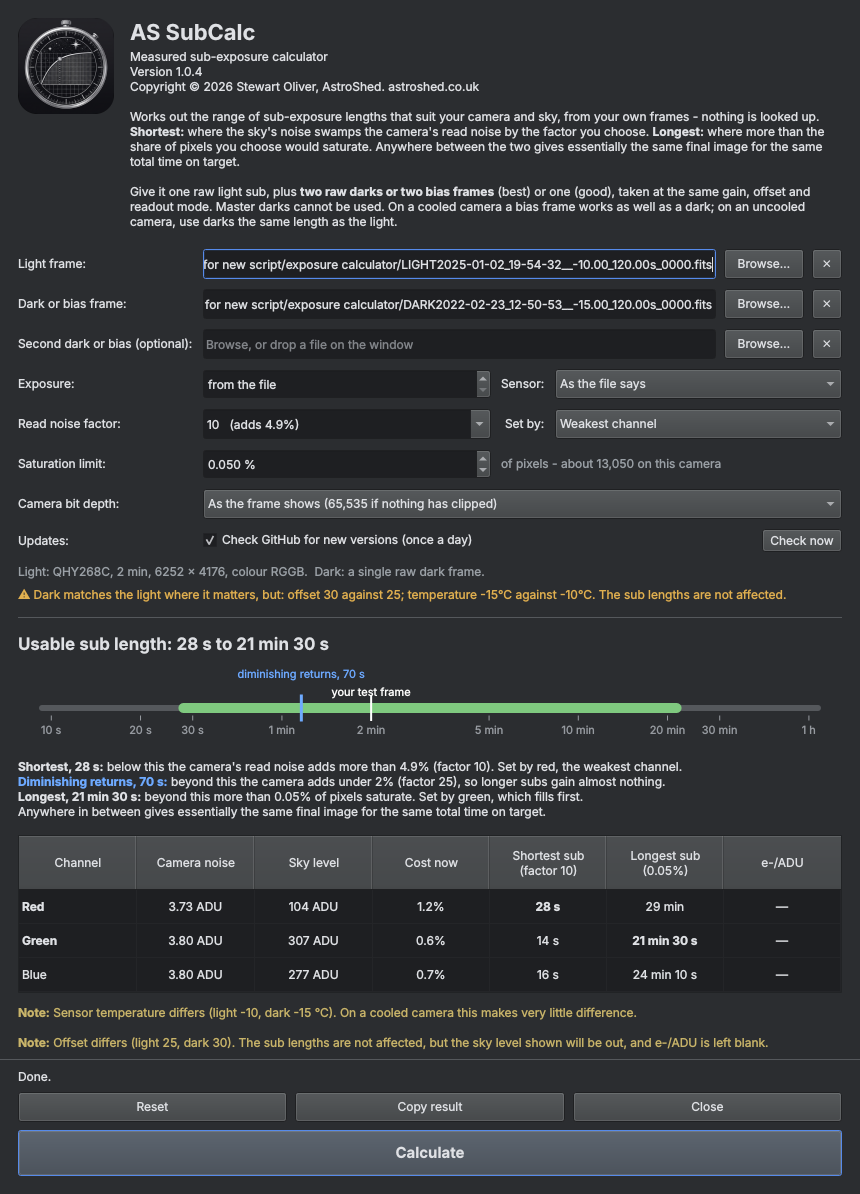
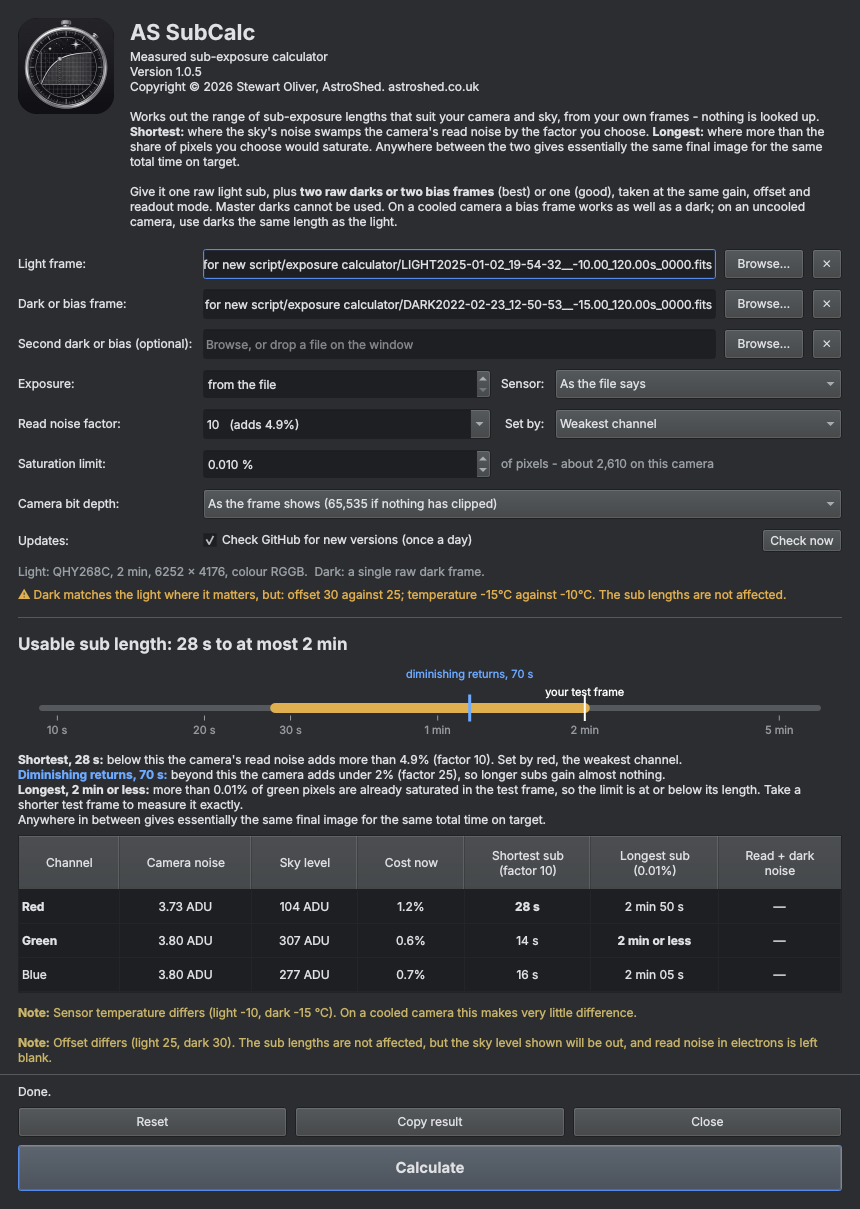
Add files via upload

Changed region(s): [[0.0, 0.031, 0.9977, 0.9916], [0.0302, 0.0, 0.1209, 0.093]]

diff --git a/CHANGELOG.md b/CHANGELOG.md
@@ -1,5 +1,12 @@
 # AS SubCalc: version history
 
+## v1.0.5
+
+- **Read noise** column, in electrons, replaces e-/ADU. With darks it is headed **Read + dark noise**, as a dark also holds a little dark-current noise; bias frames give the read noise alone.
+- **e-/ADU is no longer shown.** Many 12- and 14-bit cameras scale their values up to fill 16-bit files, so the figure measured from the file came out 4 or 16 times below the published one. The read noise in electrons is not affected by this scaling. Nothing else depended on e-/ADU: the sub lengths are unchanged.
+- The results table's columns are sized to fit their contents, with spare width shared out, so the table always fills the window.
+- Clearer message when two dark or bias frames have different lengths, for example "a 10 ms frame and a 1 ms frame".
+
 ## v1.0.4
 
 - **Fixed:** on a test frame with no saturated pixels and nothing brighter than about 4,180, the app took a 16-bit camera for a 12-bit one, and the longest sub came out about 16 times too short. It now assumes 65,535, right for nearly all astro cameras.

diff --git a/README.md b/README.md
@@ -57,7 +57,7 @@ Changing the factor or the saturation limit updates the results straight away. B
 - **Camera noise:** the camera's own noise, measured from the dark.
 - **Sky level:** how far the sky background sits above the dark in the test frame.
 - **Cost now:** the extra noise the camera adds at the test frame's length. A small figure means the sub was already long enough.
-- **e-/ADU:** the camera's conversion factor as measured from your frames. For interest only; nothing depends on it.
+- **Read noise:** the camera's read noise in electrons, measured from your frames. With darks it is shown as **Read + dark noise**, because a dark also holds a little dark-current noise; bias frames give the read noise alone. For interest only; the sub lengths do not depend on it.
 
 If the two limits cross, the app says so. You then choose which matters more: a lower factor, more saturated pixels, or two sets of subs (long ones for the faint detail, short ones for the bright stars).
 
